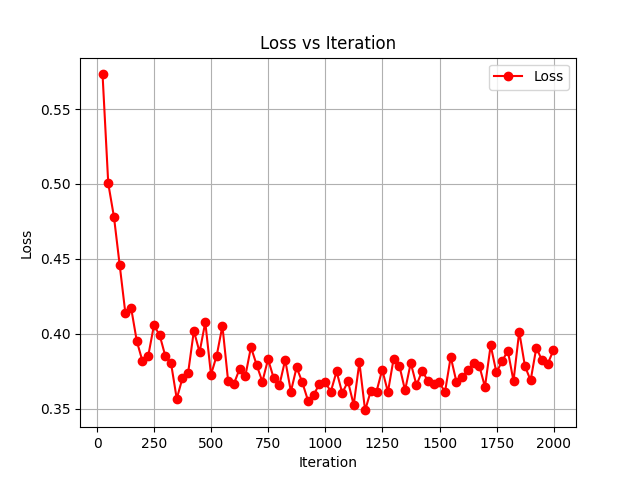
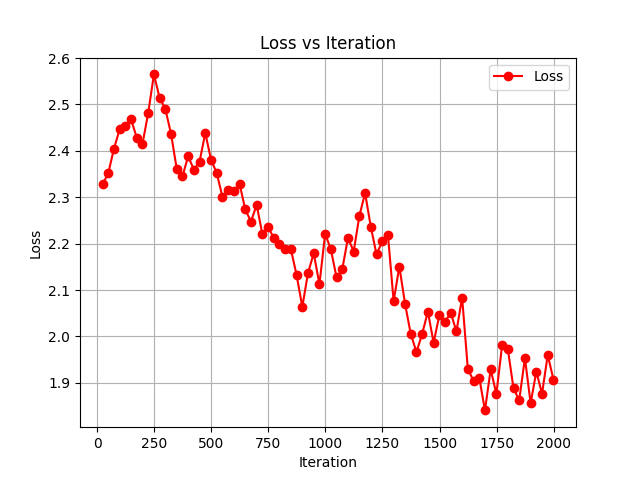
Update

diff --git a/cezo_fl/gradient_estimators/random_gradient_estimator.py b/cezo_fl/gradient_estimators/random_gradient_estimator.py
@@ -27,7 +27,13 @@ class RandomGradientEstimator(AbstractGradientEstimator):
         torch_dtype: torch.dtype = torch.float32,
         paramwise_perturb: bool = False,
         sgd_only_no_optim: bool = False,
-        dp_setting: DpSetting = DpSetting(),
+        use_dp: bool = False,
+        dp_epsilon: float = 1.0,
+        dp_delta: float = 1e-5,
+        clip_method: str = "fixed",
+        client_num: int = 2,
+        rounds: int = 2000,
+        local_updates: int = 1,
     ):
         self.parameters_list: list[Parameter] = [p for p in parameters if p.requires_grad]
         self.total_dimensions = sum([p.numel() for p in self.parameters_list])
@@ -37,6 +43,13 @@ class RandomGradientEstimator(AbstractGradientEstimator):
         self.num_pert = num_pert
         self.device = device
         self.torch_dtype = torch_dtype
+        self.use_dp = use_dp
+        self.dp_epsilon = dp_epsilon
+        self.dp_delta = dp_delta
+        self.clip_method = clip_method
+        self.client_num = client_num
+        self.rounds = rounds
+        self.local_updates = local_updates
         if isinstance(grad_estimate_method, RandomGradEstimateMethod):
             self.grad_estimate_method: RandomGradEstimateMethod = grad_estimate_method
         else:
@@ -106,7 +119,7 @@ class RandomGradientEstimator(AbstractGradientEstimator):
         if not self.paramwise_perturb:
             # We generate the perturbation vector all together. It should be faster but consume
             # more memory
-            if not self.dp_setting.dp:
+            if not self.use_dp:
                 grad, perturbation_dir_grads = self._zo_grad_estimate(
                     batch_inputs, labels, loss_fn, seed
                 )
@@ -135,6 +148,22 @@ class RandomGradientEstimator(AbstractGradientEstimator):
                 )
                 param.data.add_(_perturb, alpha=-lr * float(dir_grad) / num_pert)
 
+    # TODO: implement this clip function
+    def get_clip_threshold(
+        self,
+    ):
+        m = self.client_num
+        R = self.rounds
+        K = self.local_updates
+        P = self.num_pert
+        # alpha = 2
+        if self.clip_method == "fixed":
+            return pow(m*P*K*R, 1/4)
+        elif self.clip_method == "quantile":
+            print("not implemented yet.")
+            exit()
+
+    # TODO: uniform this function to do the actual update
     def _fc_dp_zo_grad_estimate(
         self,
         batch_inputs: torch.Tensor,
@@ -156,12 +185,9 @@ class RandomGradientEstimator(AbstractGradientEstimator):
         P = 5
         R = 2000
         K = 100
-        epsilon = 1
-        delta = 0.01
-        c = 100
-        clipping_threshold = pow(m*P*K*R, 1/4)
-        epsilon = 5
-        delta = 1e-5
+        clipping_threshold = self.get_clip_threshold()
+        epsilon = self.dp_epsilon
+        delta = self.dp_delta
         grad: torch.Tensor | None = None
         dir_grads = []
         denominator_factor = (
@@ -191,7 +217,7 @@ class RandomGradientEstimator(AbstractGradientEstimator):
             # 计算对数项
             log_term = torch.log(torch.tensor(1.25 / delta))
             # 计算高斯噪声的标准差
-            noise_std = 1 * (2 * clipping_threshold / epsilon) * torch.sqrt(2.0 * log_term)
+            noise_std = (2 * clipping_threshold / epsilon) * torch.sqrt(2.0 * log_term)
             # 生成符合高斯分布的噪声
             noise = torch.normal(
                 mean=0.0,

diff --git a/experiment_helper/prepare_settings.py b/experiment_helper/prepare_settings.py
@@ -25,7 +25,7 @@ from cezo_fl.util.language_utils import (
 )
 from cezo_fl.util.metrics import accuracy
 
-from experiment_helper.cli_parser import ModelSetting, OptimizerSetting, RGESetting, DpSetting, EstimatorType
+from experiment_helper.cli_parser import ModelSetting, OptimizerSetting, RGESetting, DpSetting, FederatedLearningSetting,EstimatorType
 from experiment_helper.data import ImageClassificationTask, LmClassificationTask, LmGenerationTask
 from dataclasses import dataclass
 
@@ -203,7 +203,9 @@ def get_model_inferences_and_metrics(
 
 
 def get_gradient_estimator(
-    model: AllModel, device: torch.device, rge_setting: RGESetting, dp_setting: DpSetting, model_setting: ModelSetting
+    model: AllModel, device: torch.device, rge_setting: RGESetting,
+        dp_setting: DpSetting, model_setting: ModelSetting,
+        fl_setting: FederatedLearningSetting
 ) -> RandomGradientEstimator | AdamForwardGradientEstimator:
     no_optim = not rge_setting.optim
     if rge_setting.estimator_type == EstimatorType.vanilla:
@@ -217,6 +219,13 @@ def get_gradient_estimator(
             # To save memory consumption, we have to use parameter-wise perturb + no_optim together.
             sgd_only_no_optim=no_optim,
             paramwise_perturb=no_optim,
+            use_dp=dp_setting.use_dp,
+            dp_epsilon=dp_setting.dp_epsilon,
+            dp_delta=dp_setting.dp_delta,
+            clip_method=dp_setting.clip_method,
+            rounds=fl_setting.iterations,
+            local_updates=fl_setting.local_update_steps,
+            client_num=fl_setting.num_clients
         )
     elif rge_setting.estimator_type == EstimatorType.adam_forward:
         return AdamForwardGradientEstimator(
@@ -227,6 +236,10 @@ def get_gradient_estimator(
             torch_dtype=model_setting.get_torch_dtype(),
             k_update_strategy=rge_setting.k_update_strategy,
             hessian_smooth=rge_setting.hessian_smooth,
+            use_dp=dp_setting.use_dp,
+            dp_epsilon=dp_setting.dp_epsilon,
+            dp_delta=dp_setting.dp_delta,
+            clip_method=dp_setting.clip_method,
         )
     else:
         raise ValueError(f"Invalid estimator type: {rge_setting.estimator_type}")

diff --git a/dpzerofl_main.py b/dpzerofl_main.py
@@ -25,6 +25,7 @@ from experiment_helper.cli_parser import (
     FederatedLearningSetting,
     RGESetting,
     ByzantineSetting,
+    DpSetting,
 )
 from experiment_helper.device import use_device
 from experiment_helper.data import get_dataloaders
@@ -77,6 +78,7 @@ def setup_server_and_clients(
             rge_setting=args.rge_setting,
             model_setting=args.model_setting,
             dp_setting=args.dp_setting,
+            fl_setting=args.federated_learning_setting
         )
 
         client = ResetClient(
@@ -111,6 +113,8 @@ def setup_server_and_clients(
         device=server_device,
         rge_setting=args.rge_setting,
         model_setting=args.model_setting,
+        dp_setting=args.dp_setting,
+        fl_setting=args.federated_learning_setting
     )
 
     server.set_server_model_and_criterion(
@@ -167,7 +171,7 @@ def setup_server_and_clients(
 
 if __name__ == "__main__":
     args = CliSetting()
-    # print(args.adjust_perturb)
+    print(args.dp_setting)
     device_map = use_device(args.device_setting, args.num_clients)
     train_loaders, test_loader = get_dataloaders(
         args.data_setting, args.num_clients, args.seed, args.get_hf_model_name()

diff --git a/experiment_helper/cli_parser.py b/experiment_helper/cli_parser.py
@@ -200,12 +200,12 @@ class FOFLSetting(FrozenSetting):
 
 
 class DpSetting(FrozenSetting):
-    dp: bool = Field(default=False)
-    dp_epsilon: float = Field(default=1.0, validation_alias=AliasChoices("dp-epsilon"))
-    dp_delta: float = Field(default=1e-5, validation_alias=AliasChoices("dp-delta"))
+    use_dp: bool = Field(default=False)
+    dp_epsilon: float = Field(default=1.0, validation_alias=AliasChoices("epsilon"))
+    dp_delta: float = Field(default=1e-5, validation_alias=AliasChoices("delta"))
     clip_method: Literal["fixed", "quantile"] = Field(
         default="fixed",
-        validation_alias=AliasChoices("clip-method"),
+        validation_alias=AliasChoices("clip_method"),
         description="Clipping method, options: fixed, quantile"
     )
     

diff --git a/cezo_fl/gradient_estimators/adam_forward copy.py b/cezo_fl/gradient_estimators/adam_forward copy.py
@@ -22,10 +22,6 @@ class AdamForwardGradientEstimator(AbstractGradientEstimator):
         hessian_smooth: float = 0.95,
         device: str | torch.device | None = None,
         torch_dtype: torch.dtype = torch.float32,
-        use_dp: bool = False,
-        dp_epsilon: float = 1.0,
-        dp_delta: float = 1e-5,
-        clip_method: str = "fixed",
     ):
         self.parameters_list: list[Parameter] = [p for p in parameters if p.requires_grad]
         self.total_dimensions = sum([p.numel() for p in self.parameters_list])

diff --git a/experiment_helper/prepare_settings copy.py b/experiment_helper/prepare_settings copy.py
@@ -203,7 +203,7 @@ def get_model_inferences_and_metrics(
 
 
 def get_gradient_estimator(
-    model: AllModel, device: torch.device, rge_setting: RGESetting, model_setting: ModelSetting
+    model: AllModel, device: torch.device, rge_setting: RGESetting, model_setting: ModelSetting,
 ) -> RandomGradientEstimator | AdamForwardGradientEstimator:
     no_optim = not rge_setting.optim
     if rge_setting.estimator_type == EstimatorType.vanilla:
